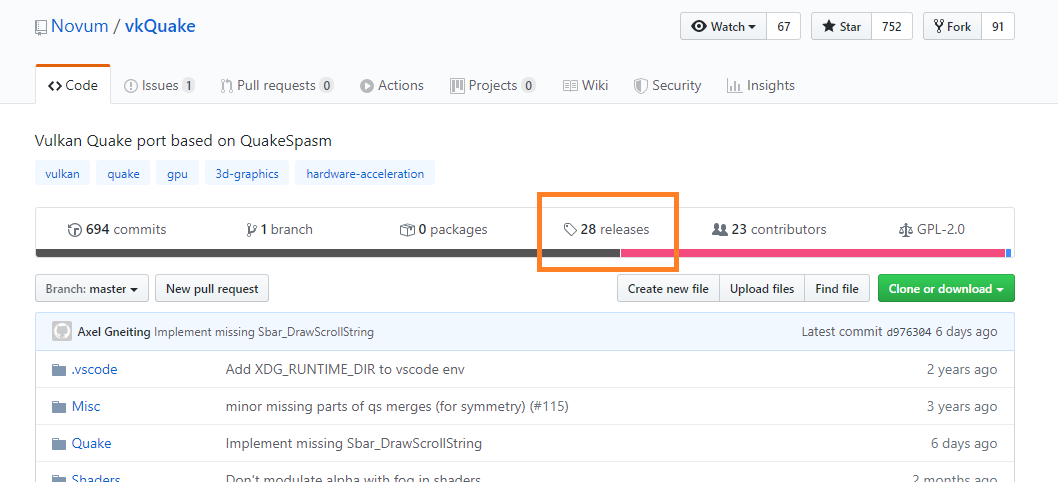
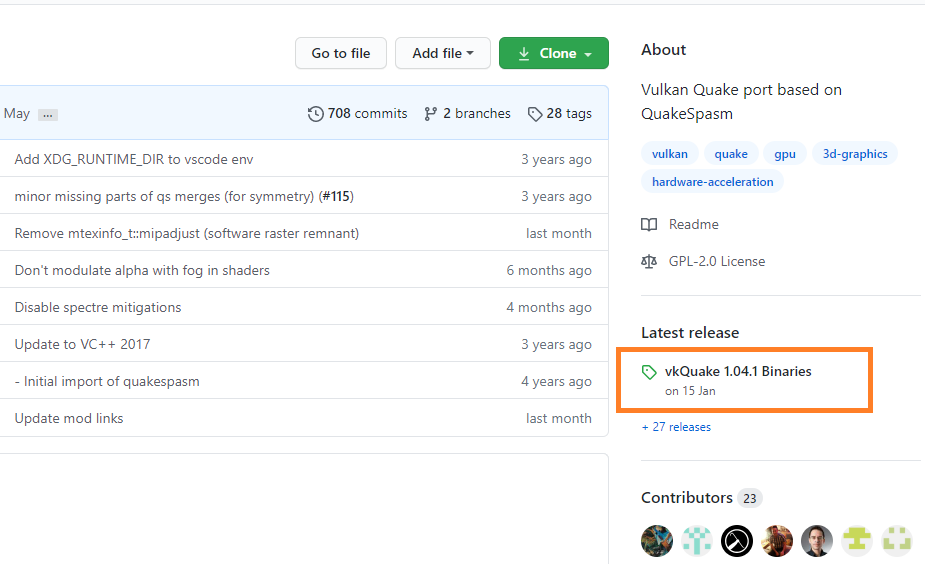
Update how-to-download page, since github updated its page layout

diff --git a/pages/how-to-download.html b/pages/how-to-download.html
@@ -34,15 +34,14 @@
       <p><img src="../images/official-website.png" id="img1">
       </p>
       <p>If there's no such link for your item - then go to github page of selected engine/mod (using main blue link),
-        and then click on "releases" link in the header:</p>
+        and then click on the link from the "Latest releases" section:</p>
       <p><img src="../images/download-releases.png" id="img2" title="Click on '* releases' link in the menu bar">
       </p>
-      <p>If compiled releases exists on github, this will open page with the list of releases. Most recent one will be
-        at the top. Click on one of the file (without Source code / Source / Src in its title) in Assets section to
-        download it.</p>
+      <p>This will open page with latest release. Click on one of the files (without Source code / Source / Src in its
+        title) in Assets section to download it.</p>
       <p><img src="../images/download-assets.png" id="img3"
           title="Click on one of the files in Assetes section of the release (if exists)"></p>
-      <p>If the "Releases link" was showing "0 releases" - you will see page titled "There aren’t any releases here". It
+      <p>If there was no "Latest releases" section on the right column of github page from previous screenshot - it
         means there are no official releases on github yet, so you will need to either find compiled releases elsewhere,
         or compile it by yourself.</p>
     </div>

diff --git a/index.html b/index.html
@@ -49,7 +49,7 @@
     <p>This is list of github repositories of <b>idTech</b> engines, it's derivatives and sourceports. It also includes
       repos of some of the <b>games and mods</b> based on Quake and Quake-related engines. <br>
       If you just want to <b>download executable files</b> or compiled mods instead of source code - use Official
-      website link if it exists or "Releases" link on github.
+      website link if it exists or "Latest release" link on github.
       <a href="pages/how-to-download.html" class="grey">This page</a> has more detailed instructions.<br>
       This is not a complete list, and it is gradually expanding and updating. There are mirrors of included repos made
       on github for archiving purposes: <a href="https://github.com/QuakeEngines" class="grey">QuakeEngines</a> for

diff --git a/style.css b/style.css
@@ -176,7 +176,7 @@ img:hover {
 }
 
 #img2 {
-  min-height: 320;
+  min-height: 564;
 }
 
 #img3 {
